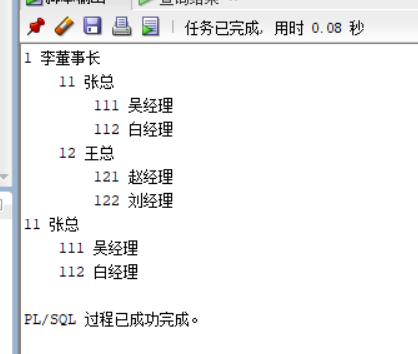
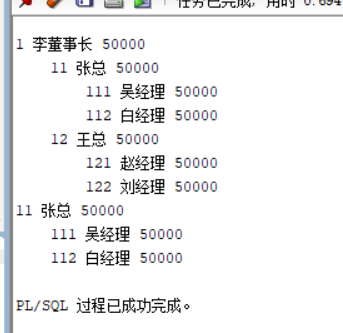
实验五修改

Changed region(s): [[0.0, 0.0, 1.0, 1.0], [0.4082, 0.7508, 0.5539, 0.8108], [0.4082, 0.6907, 0.5539, 0.7207]]

diff --git a/test5/test5.md b/test5/test5.md
@@ -26,16 +26,15 @@ create or replace PACKAGE BODY MyPack IS
       LEFTSPACE:=' ';
       --使用游标
       for v in
-      (SELECT LEVEL,EMPLOYEE_ID,NAME,MANAGER_ID FROM employees
+      (SELECT LEVEL,EMPLOYEE_ID,NAME,MANAGER_ID,SALARY FROM employees
       START WITH EMPLOYEE_ID = V_EMPLOYEE_ID
       CONNECT BY PRIOR EMPLOYEE_ID = MANAGER_ID)
       LOOP
         DBMS_OUTPUT.PUT_LINE(LPAD(LEFTSPACE,(V.LEVEL-1)*4,' ')||
-                             V.EMPLOYEE_ID||' '||v.NAME);
+                             V.EMPLOYEE_ID||' '||v.NAME||' '||v.SALARY);
       END LOOP;
     END;
-END MyPack;
-
+END MyPack;/
 ```
 #### 执行结果
 ![图片](./picture/1.png)
